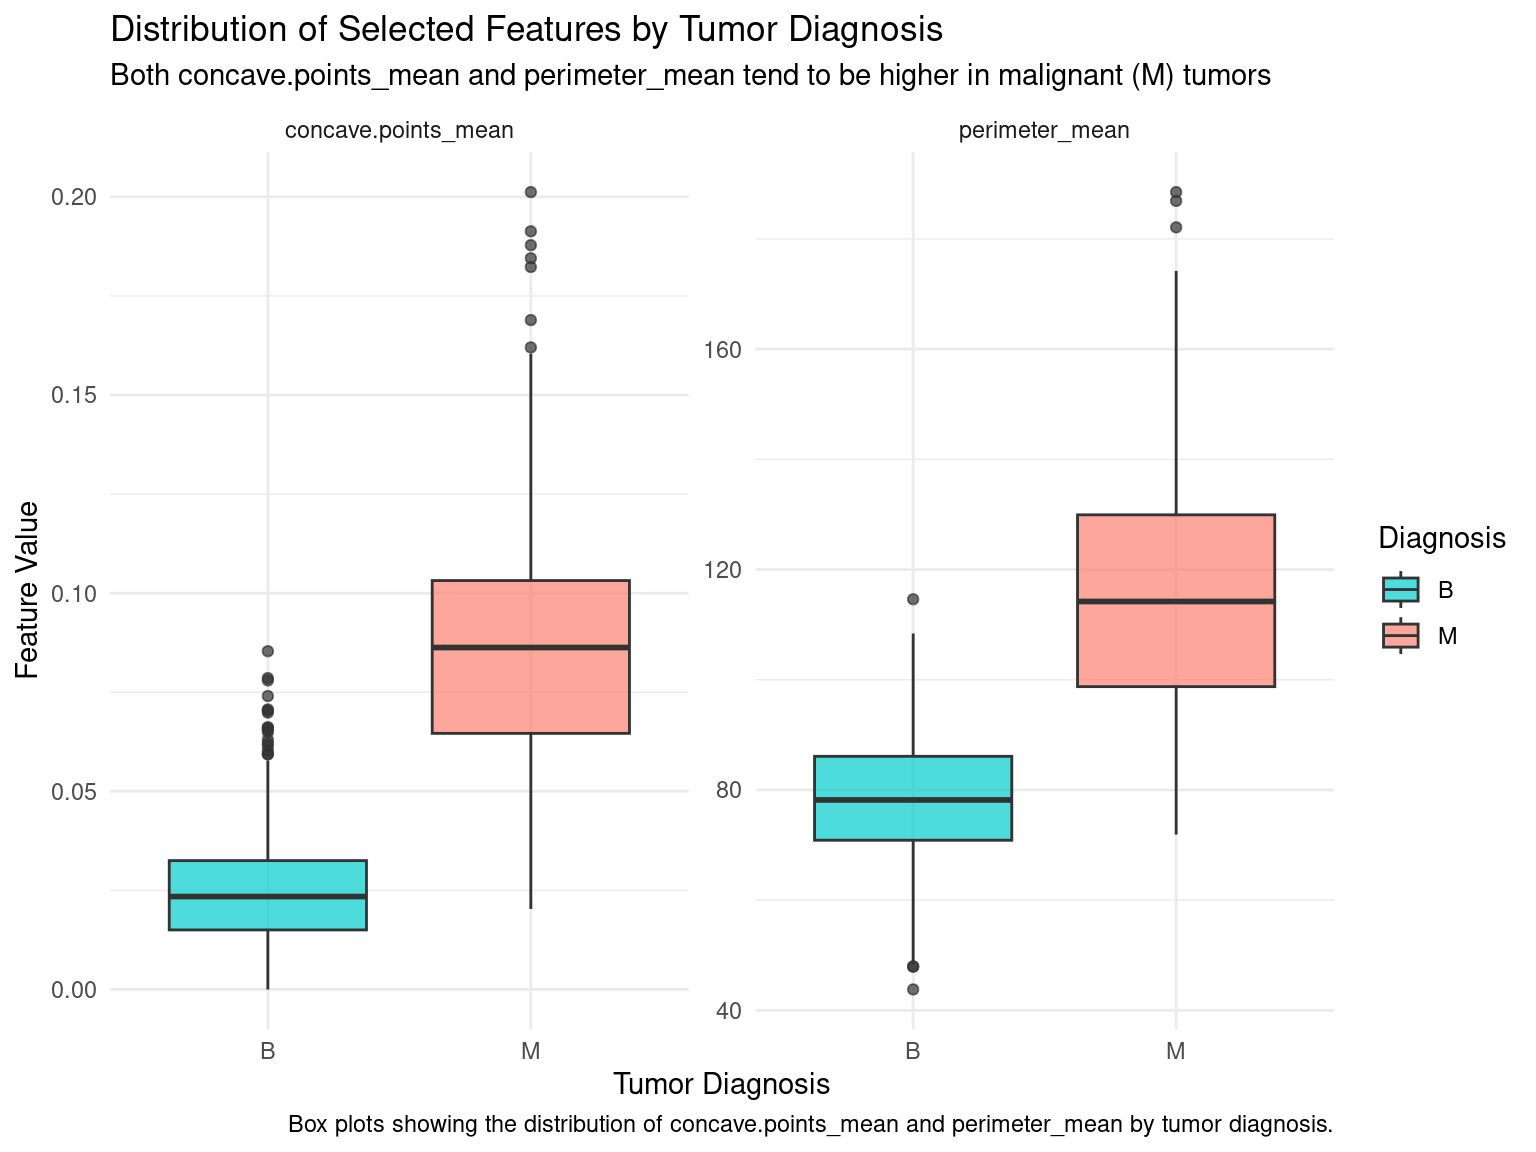
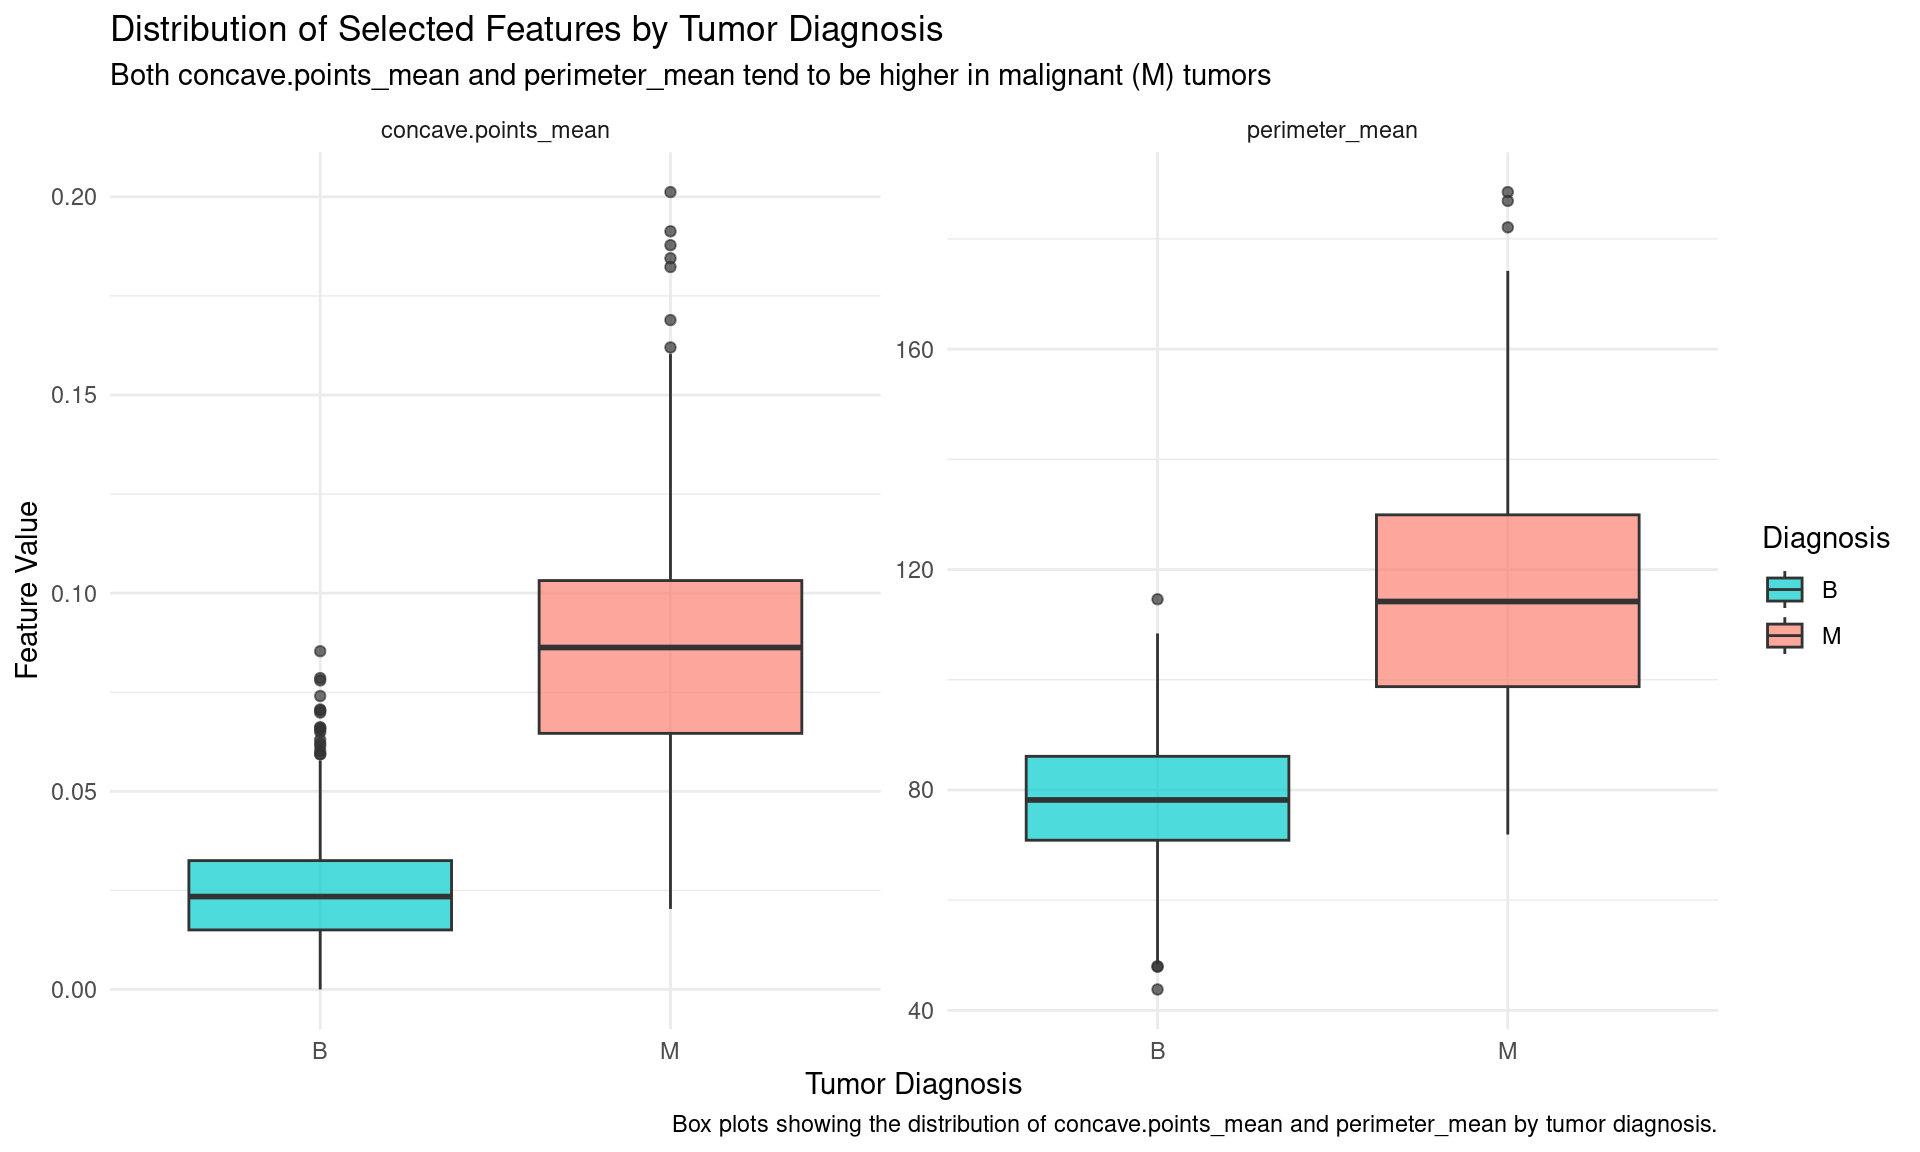
Built site for gh-pages

diff --git a/about.html b/about.html
@@ -119,7 +119,7 @@ ul.task-list li input[type="checkbox"] {
     <h2 id="toc-title">On this page</h2>
    
   <ul>
-  <li><a href="#about-guan-gui" id="toc-about-guan-gui" class="nav-link active" data-scroll-target="#about-guan-gui">About Guan Gui</a>
+  <li><a href="#introduction" id="toc-introduction" class="nav-link active" data-scroll-target="#introduction">Introduction</a>
   <ul class="collapse">
   <li><a href="#education" id="toc-education" class="nav-link" data-scroll-target="#education">Education</a></li>
   <li><a href="#research-and-professional-experience" id="toc-research-and-professional-experience" class="nav-link" data-scroll-target="#research-and-professional-experience">Research and Professional Experience</a></li>
@@ -151,48 +151,42 @@ ul.task-list li input[type="checkbox"] {
 </header>
 
 
-<section id="about-guan-gui" class="level1">
-<h1>About Guan Gui</h1>
+<section id="introduction" class="level1">
+<h1>Introduction</h1>
 <p>I am currently an ScM student in Biostatistics at Johns Hopkins Bloomberg School of Public Health, following my completion of a first-class honours degree in Data Science at the University of Sydney. My research interests span biostatistics, spatial genomics, and machine learning, with a focus on analyzing and deriving insights from complex data.</p>
 <section id="education" class="level2">
 <h2 class="anchored" data-anchor-id="education">Education</h2>
 <ul>
-<li><p><strong>Master of Science in Biostatistics (ScM)</strong><br>
-Johns Hopkins Bloomberg School of Public Health<br>
-<span style="float: right;">Sep.&nbsp;2024 - Present</span><br>
-Baltimore, MD</p></li>
-<li><p><strong>Bachelor of Science (Honours) in Data Science</strong><br>
-University of Sydney<br>
-<span style="float: right;">Mar.&nbsp;2021 - Jul.&nbsp;2024</span><br>
-Sydney, Australia<br>
+<li><p><strong>Master of Science in Biostatistics (ScM)</strong> <span style="float: right; text-align: right;">Sep.&nbsp;2024 - Present<br>
+📍 Baltimore, MD</span><br>
+<em>Johns Hopkins Bloomberg School of Public Health</em></p></li>
+<li><p><strong>Bachelor of Science (Honours) in Data Science</strong> <span style="float: right; text-align: right;">Mar.&nbsp;2021 - Jul.&nbsp;2024<br>
+📍 Sydney, Australia</span><br>
+<em>University of Sydney</em><br>
 Graduated with First Class Honours<br>
-<em>Awards</em>: Vice Chancellor’s Global Mobility Scholarship, Dalyell Scholar, Charles Perkins Centre Summer Research Scholarship</p></li>
-<li><p><strong>Semester Exchange</strong><br>
-National University of Singapore<br>
-<span style="float: right;">Aug.&nbsp;2022 - Dec.&nbsp;2022</span><br>
-Singapore</p></li>
-<li><p><strong>Summer &amp; Winter Schools</strong><br>
-Shanghai Jiao Tong University<br>
-<span style="float: right;">Dec.&nbsp;2021, Jul.&nbsp;2022</span><br>
-Shanghai, China</p></li>
+<strong>Awards:</strong> Vice Chancellor’s Global Mobility Scholarship, Dalyell Scholar, Charles Perkins Centre Summer Research Scholarship</p></li>
+<li><p><strong>Semester Exchange</strong> <span style="float: right; text-align: right;">Aug.&nbsp;2022 - Dec.&nbsp;2022<br>
+📍 Singapore</span><br>
+<em>National University of Singapore</em></p></li>
+<li><p><strong>Summer &amp; Winter Schools</strong> <span style="float: right; text-align: right;">Dec.&nbsp;2021, Jul.&nbsp;2022<br>
+📍 Shanghai, China</span><br>
+<em>Shanghai Jiao Tong University</em></p></li>
 </ul>
 </section>
 <section id="research-and-professional-experience" class="level2">
 <h2 class="anchored" data-anchor-id="research-and-professional-experience">Research and Professional Experience</h2>
 <ul>
-<li><p><strong>SpatialFeatures Project</strong><br>
+<li><p><strong>SpatialFeatures Project</strong> <span style="float: right; text-align: right;">Jul.&nbsp;2023 - Present<br>
+📍 Sydney, Australia</span><br>
 <em>University of Sydney</em><br>
-<span style="float: right;">Jul.&nbsp;2023 - Present</span><br>
 Developed the “SpatialFeatures” algorithm to analyze spatial genomics data at cellular and sub-cellular levels, creating a versatile R package for use across genomics datasets.</p></li>
-<li><p><strong>Data Analyst Intern</strong><br>
+<li><p><strong>Data Analyst Intern</strong> <span style="float: right; text-align: right;">Jan.&nbsp;- May 2022<br>
+📍 Shanghai, China</span><br>
 <em>DiAct Technology Co., Ltd.&nbsp;(Ipsos)</em><br>
-<span style="float: right;">Jan.&nbsp;- May 2022</span><br>
-Shanghai, China<br>
 Analyzed social media data for automotive trends, improving data processing by 30% through Python optimizations.</p></li>
-<li><p><strong>User Growth Intern</strong><br>
+<li><p><strong>User Growth Intern</strong> <span style="float: right; text-align: right;">Jul.&nbsp;- Oct.&nbsp;2021<br>
+📍 Beijing, China</span><br>
 <em>JD.com</em><br>
-<span style="float: right;">Jul.&nbsp;- Oct.&nbsp;2021</span><br>
-Beijing, China<br>
 Enhanced SQL processes and developed metrics for improved user engagement recommendations.</p></li>
 </ul>
 </section>

diff --git a/example_analysis.html b/example_analysis.html
@@ -543,7 +543,7 @@ Note
 <div class="cell-output-display">
 <div>
 <figure class="figure">
-<p><img src="example_analysis_files/figure-html/target-variable-1.png" class="img-fluid figure-img" width="576"></p>
+<p><img src="example_analysis_files/figure-html/target-variable-1.png" class="img-fluid figure-img" width="960"></p>
 </figure>
 </div>
 </div>
@@ -577,7 +577,7 @@ Note
 <div class="cell-output-display">
 <div>
 <figure class="figure">
-<p><img src="example_analysis_files/figure-html/faceted-plot-1.png" class="img-fluid figure-img" width="768"></p>
+<p><img src="example_analysis_files/figure-html/faceted-plot-1.png" class="img-fluid figure-img" width="960"></p>
 </figure>
 </div>
 </div>

diff --git a/styles.css b/styles.css
@@ -45,3 +45,9 @@ img {
   border: 3px solid #800000;
   border-radius: 10px;
 }
+
+.right-align {
+    float: right;
+    text-align: right;
+    margin-left: auto;
+}
